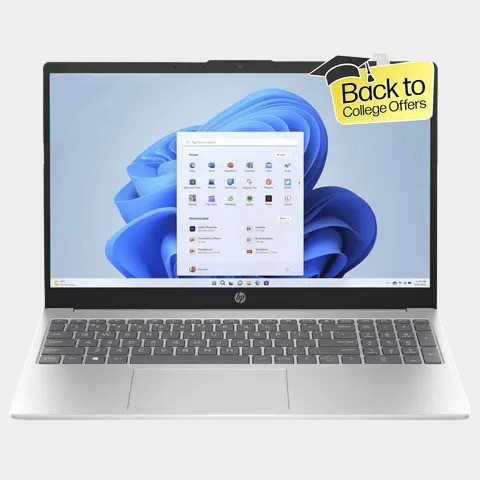
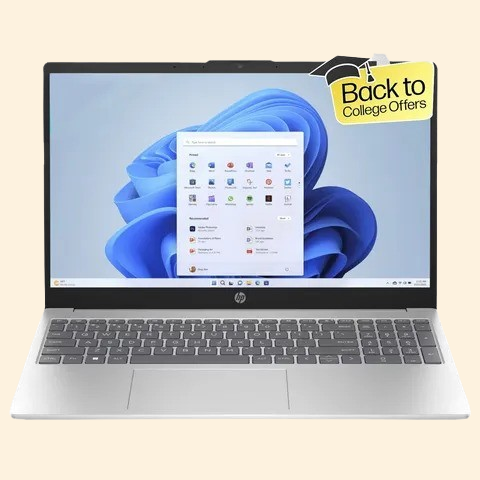
Day 27: Today I Changed the theme of Electronics  Webpage

Changed region(s): [[0.9062, 0.5312, 0.9375, 0.5938], [0.0938, 0.125, 0.1562, 0.1562], [0.0625, 0.4688, 0.0938, 0.5]]

diff --git a/electronics.css b/electronics.css
@@ -4,13 +4,13 @@
 }
 body{
     height: 100%;
-    background-color: #888888;
+    background-color: #FBE7C6;
 }
 /*          Navbar                 */
 .navbar{
     display: flex;
     justify-content: space-between;
-    background-color: #545454;
+    background-color: #FBE7C6;
     height: 100px;
 }
 .main_button{
@@ -87,12 +87,13 @@ body{
 .bottom-navbar{
     display: flex;
     justify-content: space-around;
-    background-color: #6E6E6E;
+    background-color: #FBE7C6;
     text-decoration: none;
     height: 32px;
+    border: 1px solid black;
 }
 .bottom-nav{
-    color: azure;
+    color: black;
     text-align: center;
     text-decoration: none;
     margin-top: 5px;
@@ -113,7 +114,7 @@ body{
     
 }           
 .product{
-    background-color: #EEEEEE;
+    background-color: #fdf2df;
     width: 200px;
     display: flex;
     flex-direction: row;

diff --git a/electronics.html b/electronics.html
@@ -10,10 +10,10 @@
               <!-- Navbar                  -->
               <div class="navbar">
                 <a href="main.html">
-                    <div class="brand"><img class="brand_logo" src="E-Karty Logo.png" /></div>
+                    <div class="brand"><img class="brand_logo" src="/Files/Electronics 1/Electronics logo.png" /></div>
                 </a>
                 <div class="search_box"><input class="search" type="text" placeholder="Search.." />
-              <img class="glass" src="/Files/search.png">
+              <img class="glass" src="/Files/search.png" >
           </div>
                 <div><img class="cart" src="/Files/Cart_logo.png" /></div>
                 <div class="main_button">

diff --git a/appliance.html b/appliance.html
@@ -4,7 +4,7 @@
     <meta charset="UTF-8">
     <meta name="viewport" content="width=device-width, initial-scale=1.0">
     <title>Mobile</title>
-    <link rel="stylesheet" href="electronics.css"/>
+    <link rel="stylesheet" href="appliance.css"/>
 </head>
 <body>
               <!-- Navbar                  -->
